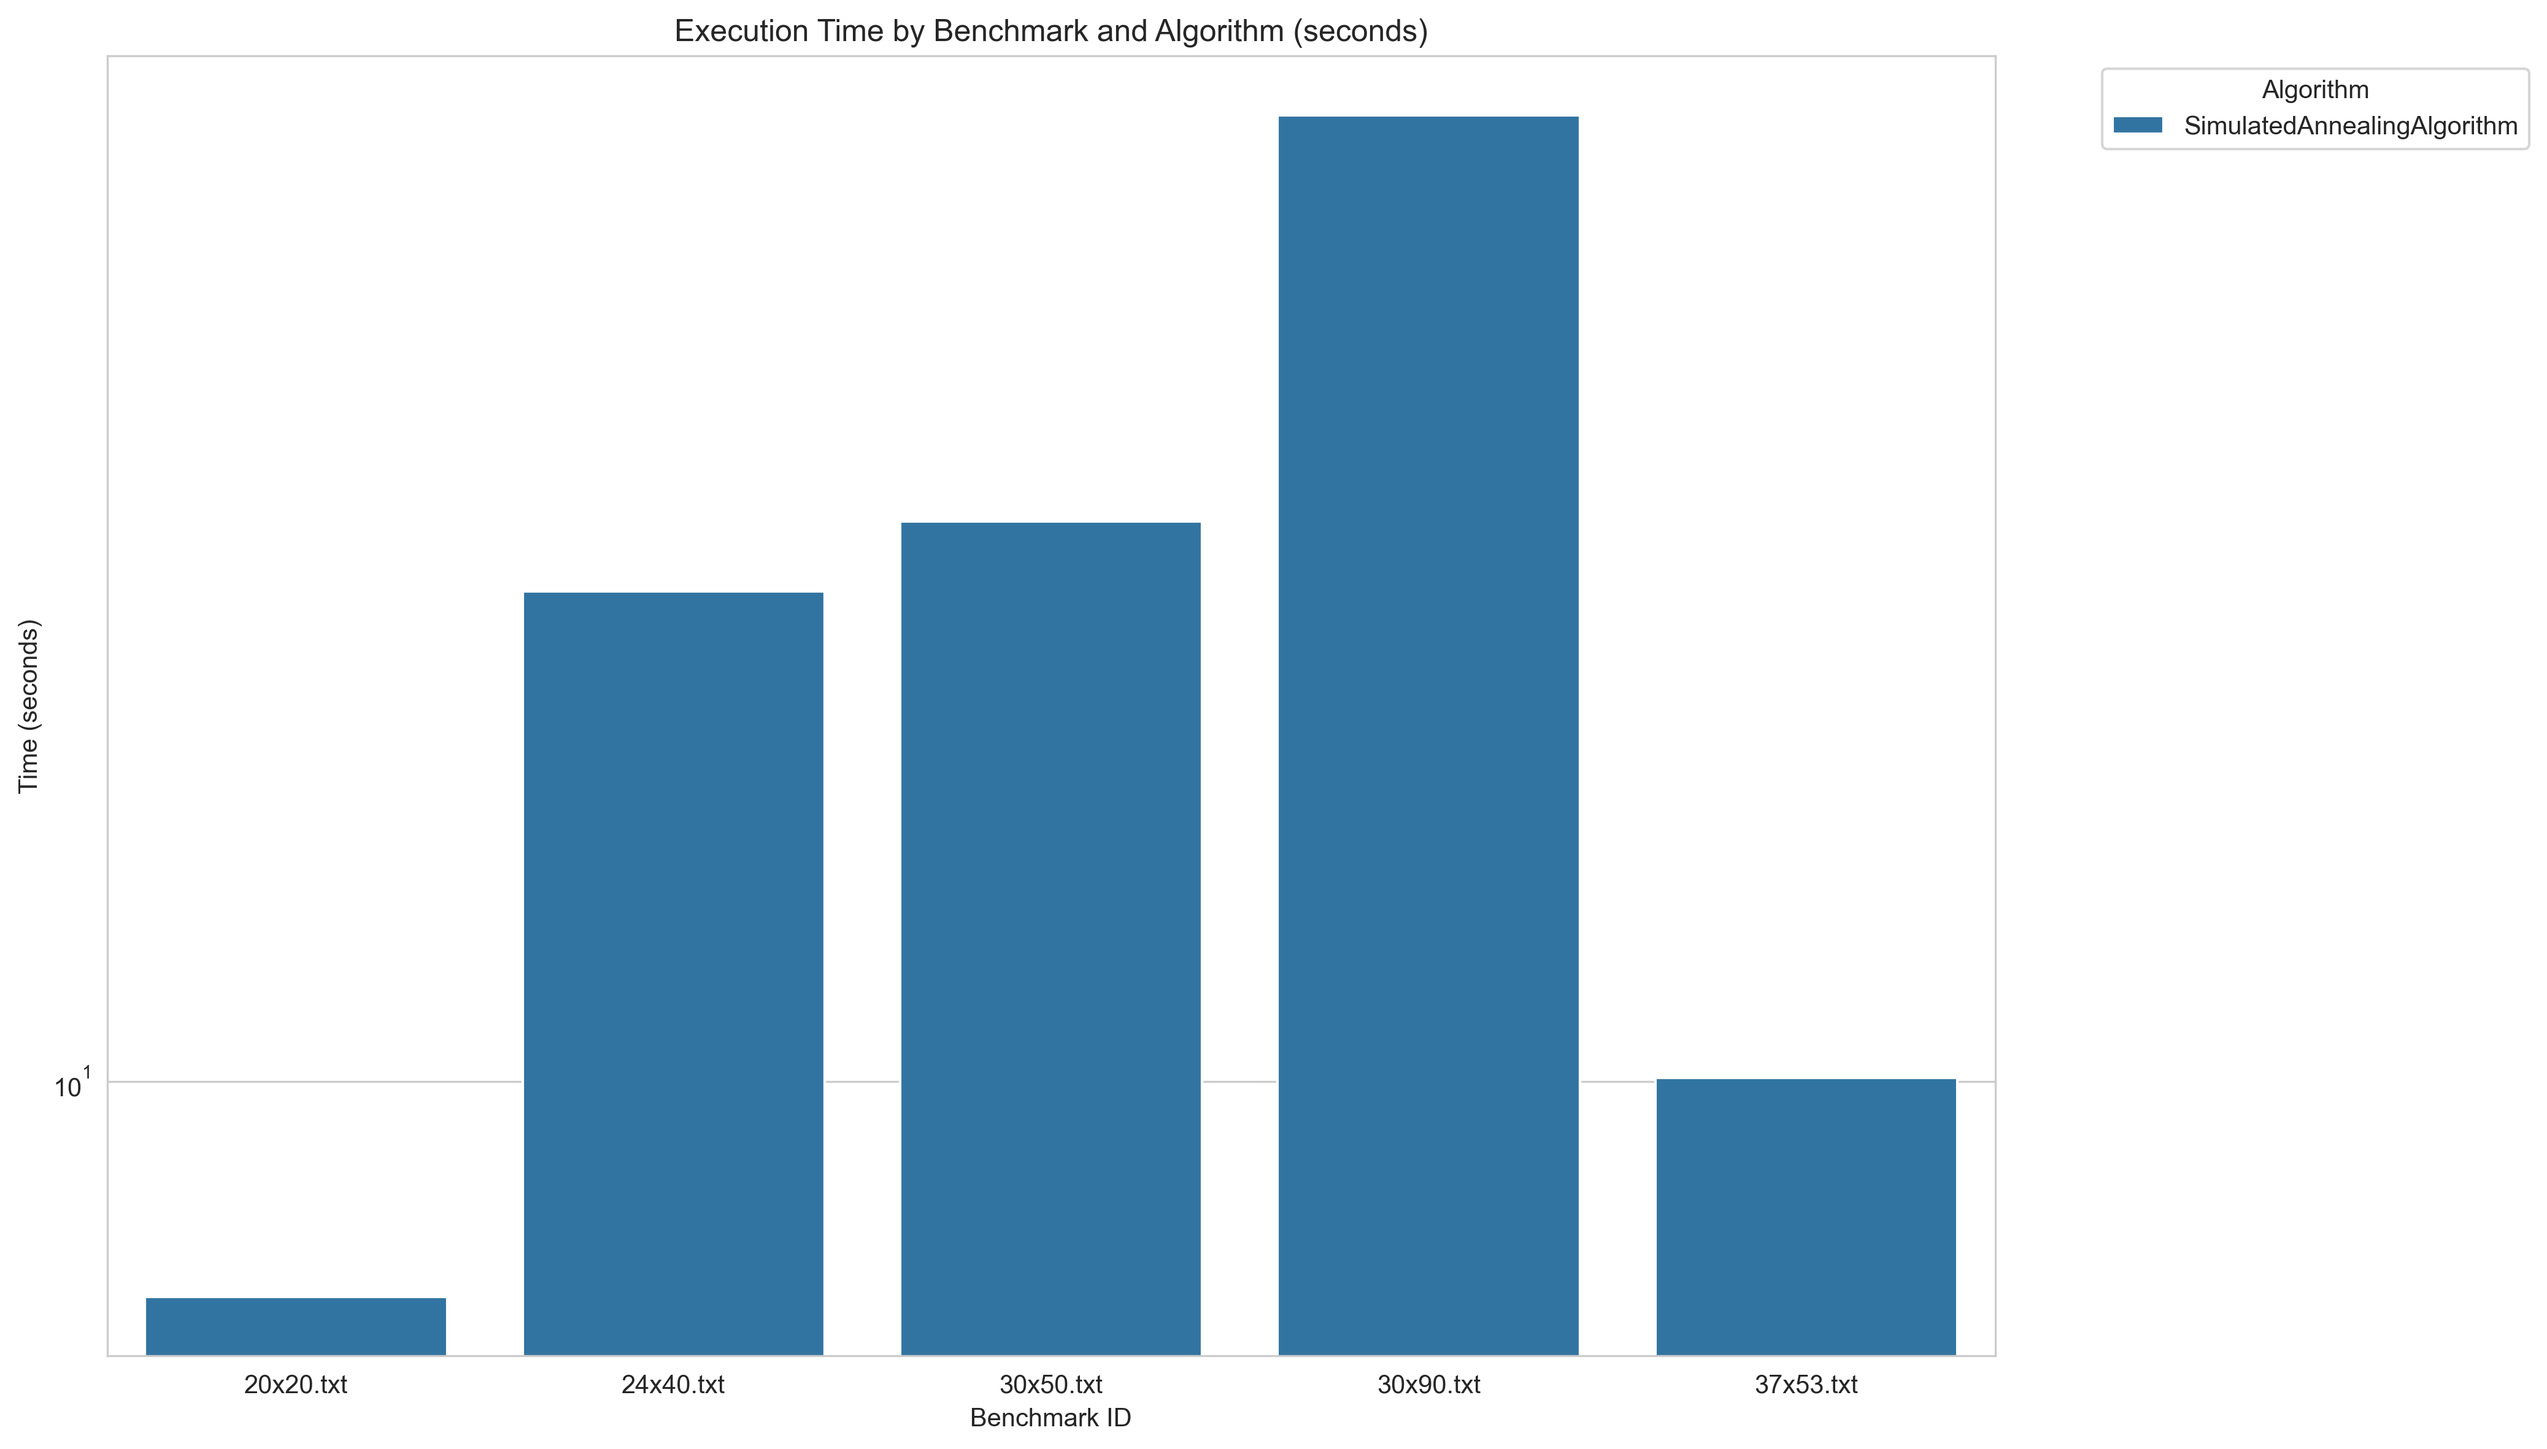
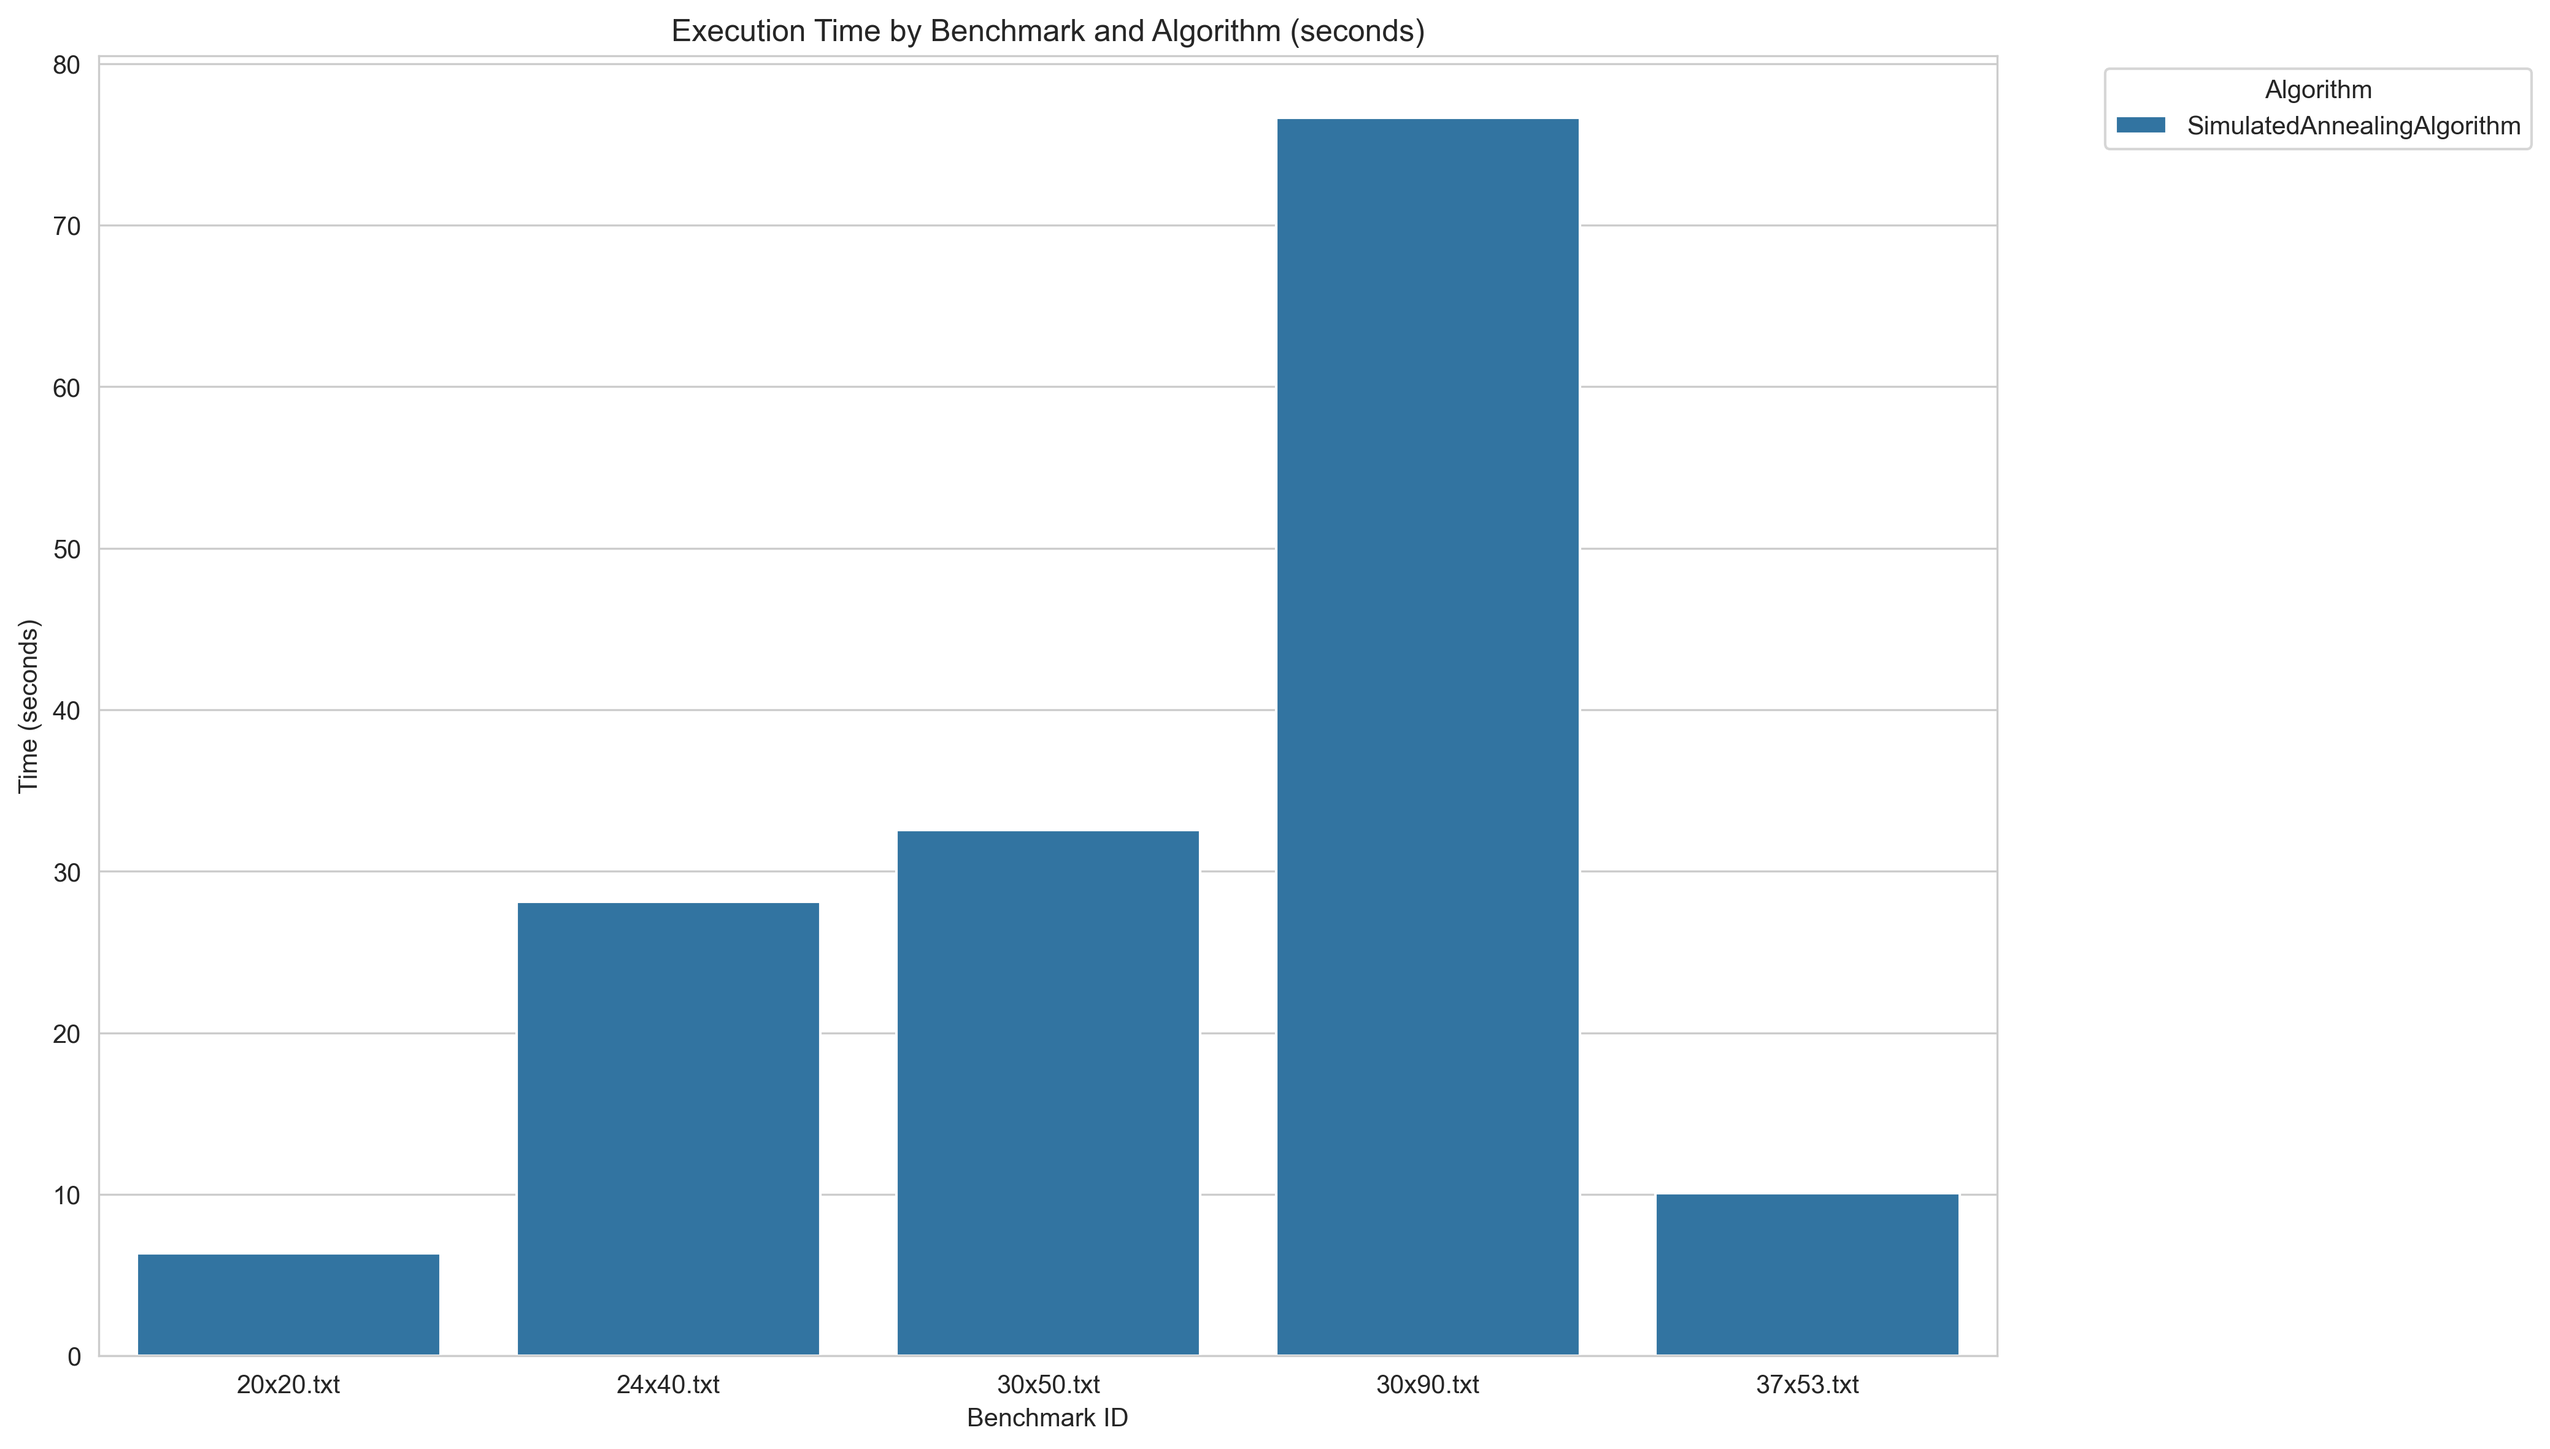
renamed

diff --git a/main.py b/main.py
@@ -14,7 +14,7 @@ plt.figure(figsize=(12, 8))
 
 plt.figure(figsize=(14, 8))
 sns.barplot(x='benchmark', y='avg_time_sec', hue='alg', data=data)
-plt.yscale('log')
+#plt.yscale('log')
 plt.title('Execution Time by Benchmark and Algorithm (seconds)')
 plt.xlabel('Benchmark ID')
 plt.ylabel('Time (seconds)')
@@ -25,11 +25,11 @@ plt.close()
 
 plt.figure(figsize=(14, 8))
 sns.barplot(x='benchmark', y='best_total_cost', hue='alg', data=data)
-plt.yscale('log')
-plt.title('Algorithm Cost by Benchmark and Algorithm')
+#plt.yscale('log')
+plt.title('F value by Benchmark and Algorithm')
 plt.xlabel('Benchmark ID')
 plt.ylabel('Cost')
 plt.legend(title='Algorithm', bbox_to_anchor=(1.05, 1), loc='upper left')
 plt.tight_layout()
-plt.savefig(os.path.join(bench_path, 'algorithm_cost.png'), dpi=300, bbox_inches='tight')
+plt.savefig(os.path.join(bench_path, 'f_value.png'), dpi=300, bbox_inches='tight')
 plt.close()

diff --git a/src/benchmarks.py b/src/benchmarks.py
@@ -48,7 +48,7 @@ class Benchmark:
             'best_parts': " ".join(map(str, best_parts)),
             'best_machines': " ".join(map(str, best_machines))
         })
-        self.save_solution("../results/"+benchmark[:-4] + ".sol", best_machines, best_parts)
+        self.save_solution("results/"+benchmark[:-4] + ".sol", best_machines, best_parts)
 
     def save_solution(self, file_path: str, best_machines, best_parts) -> None:
         with open(file_path, 'w') as file:
@@ -58,5 +58,5 @@ class Benchmark:
 
 
 if __name__ == '__main__':
-    benchmark = Benchmark(SimulatedAnnealingAlgorithm, '../benchmarks', 5)
+    benchmark = Benchmark(SimulatedAnnealingAlgorithm, 'benchmarks', 5)
     benchmark.run_all()
